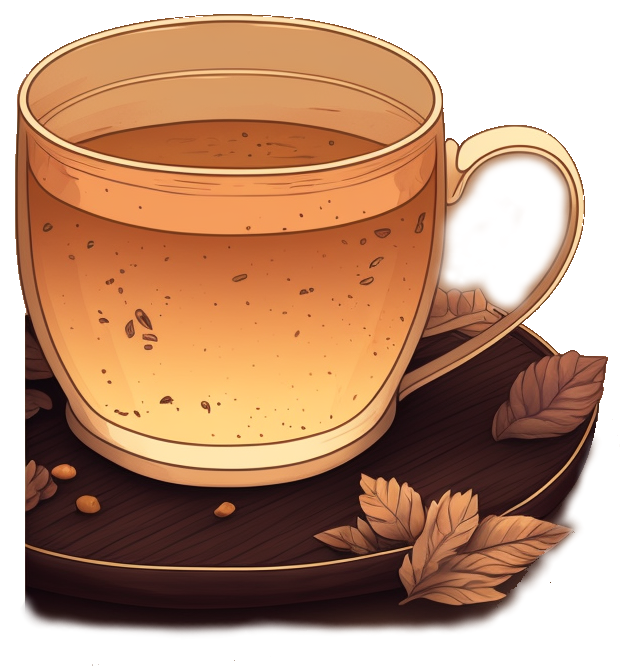
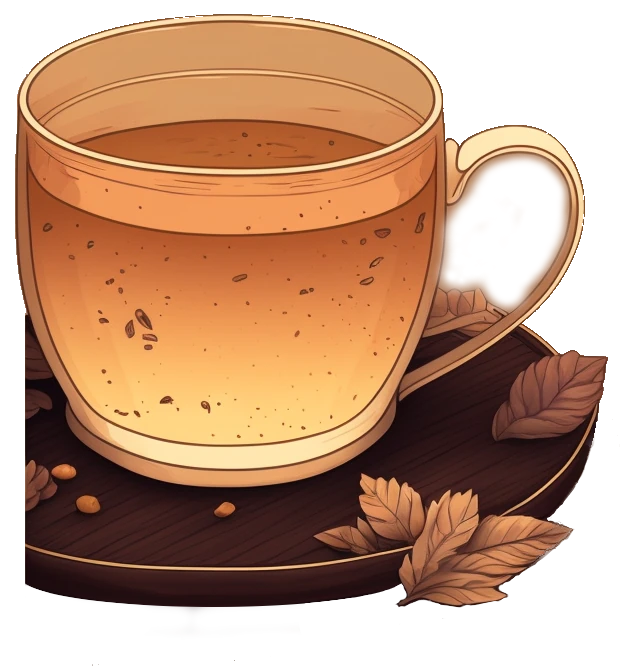
LP - fix responsibility + cleanup tea img

Changed region(s): [[0.0303, 0.7508, 0.9394, 0.961], [0.9091, 0.6907, 0.9394, 0.7508], [0.9394, 0.6607, 0.9697, 0.6907]]

diff --git a/pages/Home.module.scss b/pages/Home.module.scss
@@ -11,13 +11,19 @@
   @include container();
   min-height: 100vh;
   position: relative;
-  display: flex;
-  flex-direction: row;
-  justify-content: center;
+  display: grid;
+  grid-template-columns: 1fr 1fr;
+  @media (max-width: $breakpoint-md) {
+    grid-template-columns: 1fr;
+  }
+  justify-items: end;
   align-items: center;
 
   .image-tea {
     transform: translate(-25px, 15px);
+    filter: drop-shadow(0px 24px 10px #0000009f);
+    max-width: 100%;
+    height: auto;
   }
 }
 
@@ -30,6 +36,7 @@
   max-width: 560px;
   border-radius: 24px;
   padding: 32px;
+  filter: drop-shadow(0px 24px 10px #0000009f);
 
   .title {
     margin: 0px 0px 40px;
